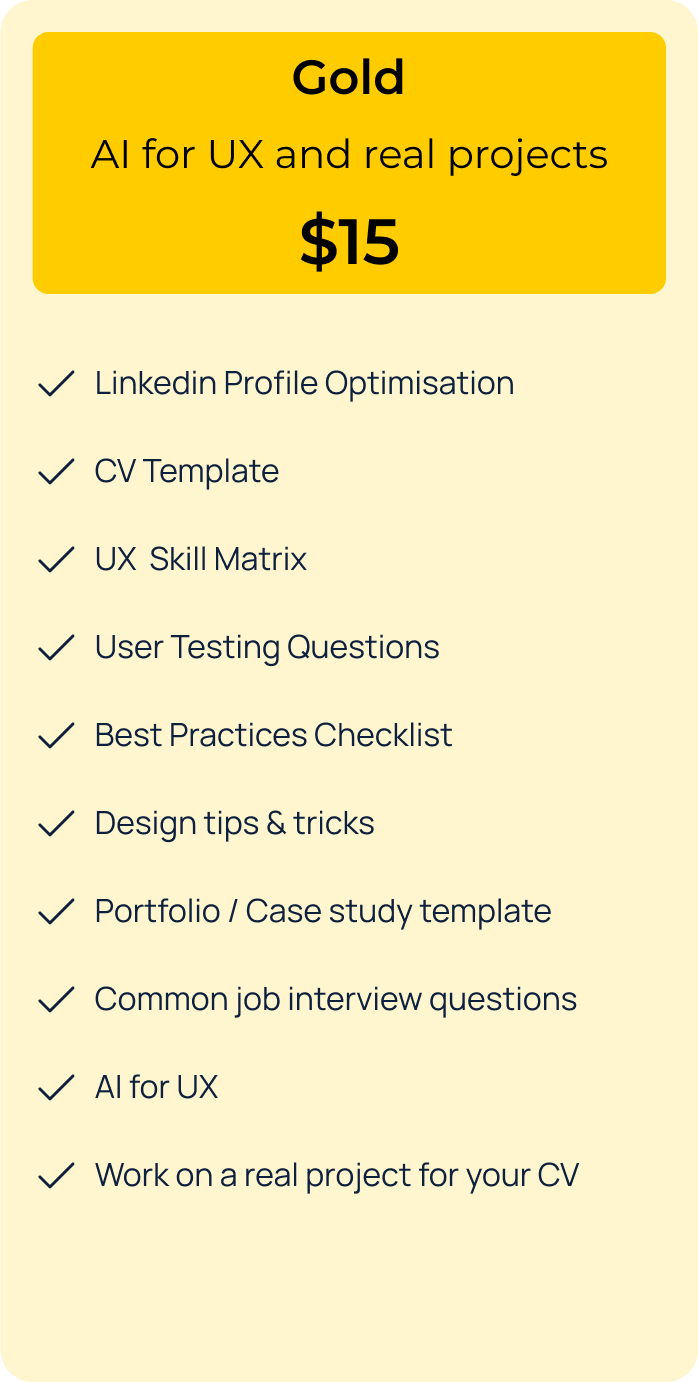
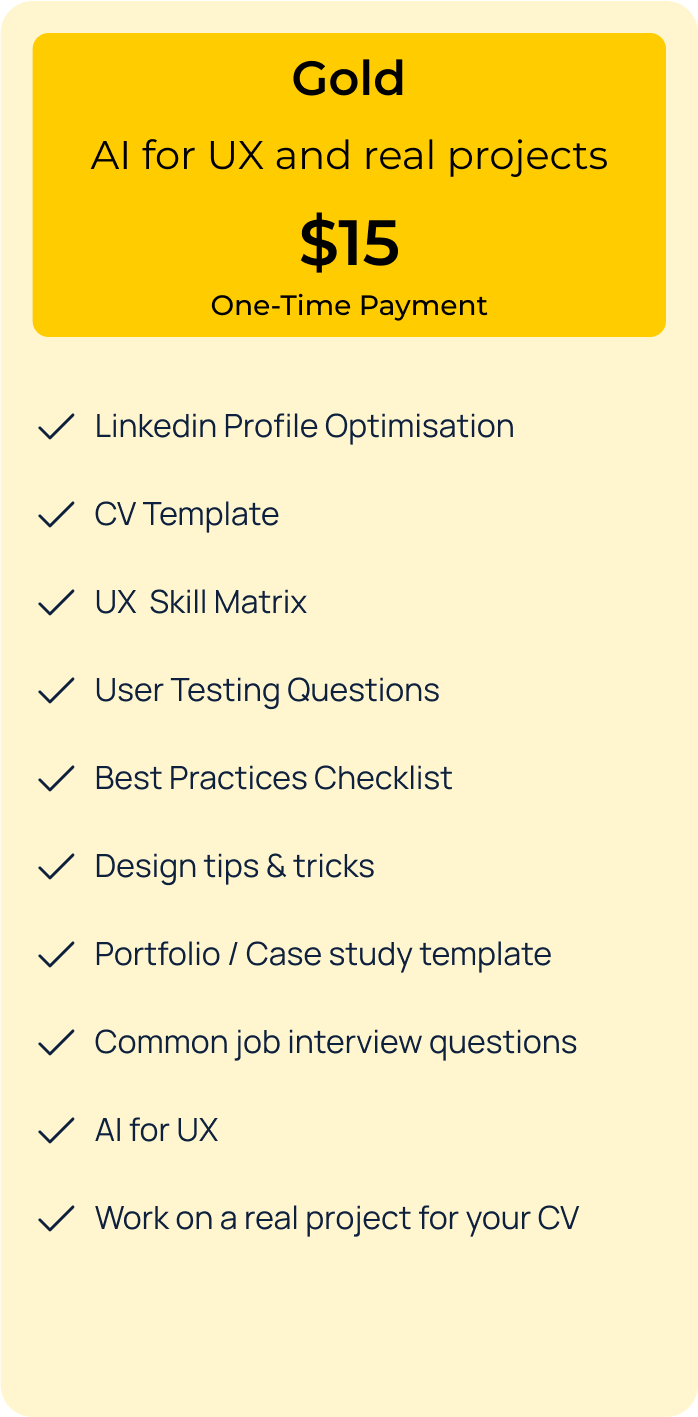
added benefits

diff --git a/ux_career_program.html b/ux_career_program.html
@@ -40,7 +40,7 @@
             <!-- <img class="hero" src="images/UX-career-program.png"><br> -->
             <h1>UX Resource Pack</h1>
             <p>The ultimate Figma resource pack for UX/Product Designers with <strong>FREE</strong> content and advanced material!<br><br>
-                Boost your design career with expert guidance from a Product Designer with 10+ years of experience at top companies like Booking.com. Whether you're a beginner or levelling up, you'll find <strong>portfolio/CV templates, design tips, AI applications for UX</strong>, and much more.
+                Boost your design career with guidance from an expert Product Designer with experience gained from top companies like <strong>Booking.com</strong> and <strong>MoneySuperMarket</strong>. Whether you're a beginner or levelling up, you'll find <strong>portfolio/CV templates, design tips, AI-driven solutions for UX</strong>, and much more.
             </p>
             <form action="#plans"  style="text-align: center; display: block; margin: 32px;">
                 <input class="btn-primary" type="submit" value="Select your plan"/>
@@ -51,11 +51,11 @@
 
             <div class="plans" id="plans">
                 <h2>Select your plan</h2>
-                <p>I believe knowledge shouldn't be expensive, that's why these plans are NOT subscriptions but one-off payments so you can download all the good stuff.</p> 
+                <p>I believe knowledge shouldn't be expensive, that's why these plans are <strong>NOT subscriptions</strong> but <strong>one-time payments</strong> so you get life-time updates for <strong>FREE</strong>.</p> 
                 <div class="product-card">
                     <img class="product-thumb" src="images/bronze.png" style="width:100%" loading="lazy" alt="bronze plan">
                         <p><form action="https://www.figma.com/community/file/1400586332392578408/ux-career-program-cv-portfolio-template" target="_blank">
-                             <input id="buy-now" class="btn-primary" type="submit" value="Open in Figma" />
+                             <input id="buy-now" class="btn-primary no-shadow" type="submit" value="Open in Figma" />
                             </form>
                         </p>    
                 </div>
@@ -65,7 +65,7 @@
                         <p><form action="https://www.paypal.com/cgi-bin/webscr" method="post" target="_blank">
                                         <input type="hidden" name="cmd" value="_s-xclick">
                                         <input type="hidden" name="hosted_button_id" value="MYL2CCXFGU94Q">
-                                        <input type="submit" id="buy-now" class="btn-primary" border="0" name="submit" value="Buy Now">
+                                        <input type="submit" id="buy-now" class="btn-primary no-shadow" border="0" name="submit" value="Buy Now">
                             </form>
                         </p>    
                 </div>
@@ -75,7 +75,7 @@
                         <p><form action="https://www.paypal.com/cgi-bin/webscr" method="post" target="_blank">
                                         <input type="hidden" name="cmd" value="_s-xclick">
                                         <input type="hidden" name="hosted_button_id" value="EBP57JNCSBK88">
-                                        <input type="submit" id="buy-now" class="btn-primary" border="0" name="submit" value="Buy Now">
+                                        <input type="submit" id="buy-now" class="btn-primary no-shadow" border="0" name="submit" value="Buy Now">
                             </form>
                         </p>    
                 </div>
@@ -83,8 +83,41 @@
 
             </div>    
 
-            <h2>Why choose this UX Resource Pack?</h2>
-            <p>With a proven track record of success in the UX design industry, this design resource pack offers <strong>FREE</strong> and more advanced tools like <strong>portfolio / CV templates, design tips, AI-driven UX solutions</strong> and much more to help you achieve your career goals. Each tier is designed to provide you with the resources and support you need at every stage of your UX journey.</p> 
+            <h2>What can I expect from the Silver and Gold plans?</h2>
+            <ul>
+                <li>
+                    <strong>Design Tips & Tricks:</strong> 
+                    A collection of design best practices to improve usability, engagement and conversion. Stand out from the crowd by being a PRO designer.
+                </li><br>
+                <li>
+                    <strong>Portfolio / Case study template:</strong> 
+                    How to optimise your portfolio/case study to create a compelling story and attract hiring managers' attention.
+                </li><br>
+                <li>
+                    <strong>Common job interview questions:</strong> 
+                    Prepare for your UX interviews with a guide on the most common questions I've encountered in my experience.
+                </li><br>
+                <li>
+                    <strong>AI for UX:</strong> 
+                    Learn how AI can be applied to UX design, like generating ideas, user-flows, visual assets, secondary research, and much more!
+                </li><br>
+                <li>
+                    <strong>Real project for your CV:</strong> 
+                    You don’t have enough work experience on your CV? No problem! You’ll have access to my personal start-up web designs and be able to optimise it. I will host your designs on my site and provide you with your unique URL, so you can use it as a real work experience example.
+                </li>
+              </ul>
+
+              <style>
+                ul {
+                  list-style: none; /* Remove default bullet points */
+                  padding-left: 0;
+                }
+            
+                ul li::before {
+                  content: "✔"; /* Tick icon */
+                  margin-right: 4px; /* Space between tick and text */
+                }
+              </style>
             
         </div>   
          <!-- Zoom Modal -->
@@ -105,7 +138,6 @@
                         <img src="images/gmail-round.png"></a>
                     </div>
                 </div>
-                <p>Portfolio entirely built using HTML5, CSS3 & JS<br>Alex Di Guardo © 2021</p>
             </div>
         </footer>
     </body>

diff --git a/ux_career_download.html b/ux_career_download.html
@@ -56,7 +56,6 @@
                         <img src="images/gmail-round.png"></a>
                     </div>
                 </div>
-                <p>Portfolio entirely built using HTML5, CSS3 & JS<br>Alex Di Guardo © 2021</p>
             </div>
         </footer>
     </body>

diff --git a/site.css b/site.css
@@ -204,6 +204,10 @@ form {display: inline-block}
     box-shadow: rgb(128 186 255) 0px 5px 24px 1px;
 }
 
+.btn-primary.no-shadow {
+    box-shadow: none;
+}
+
 .btn-primary:hover {
     background-color: #0862A6;
     transition: all 0.8s;
